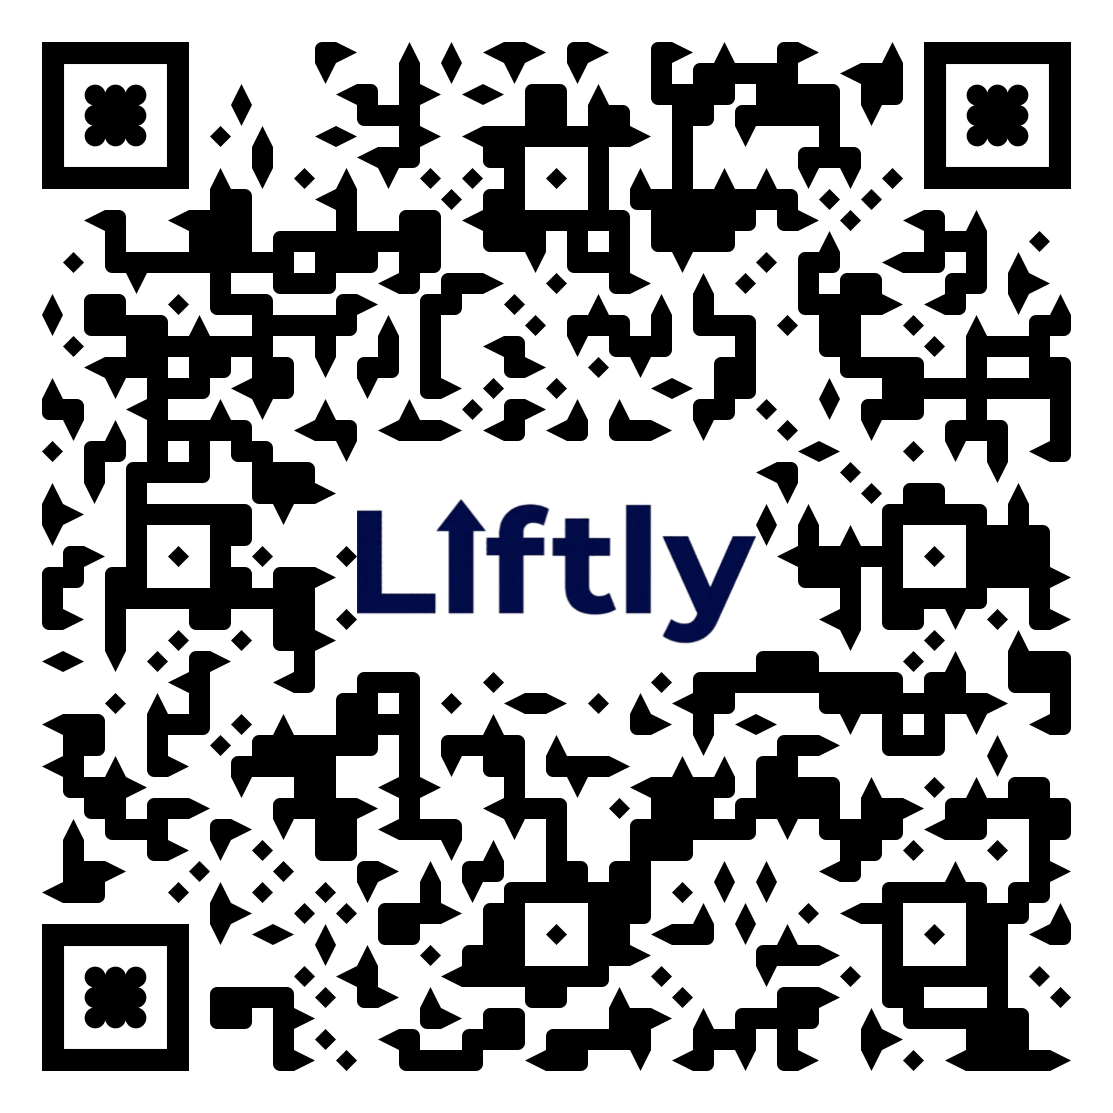
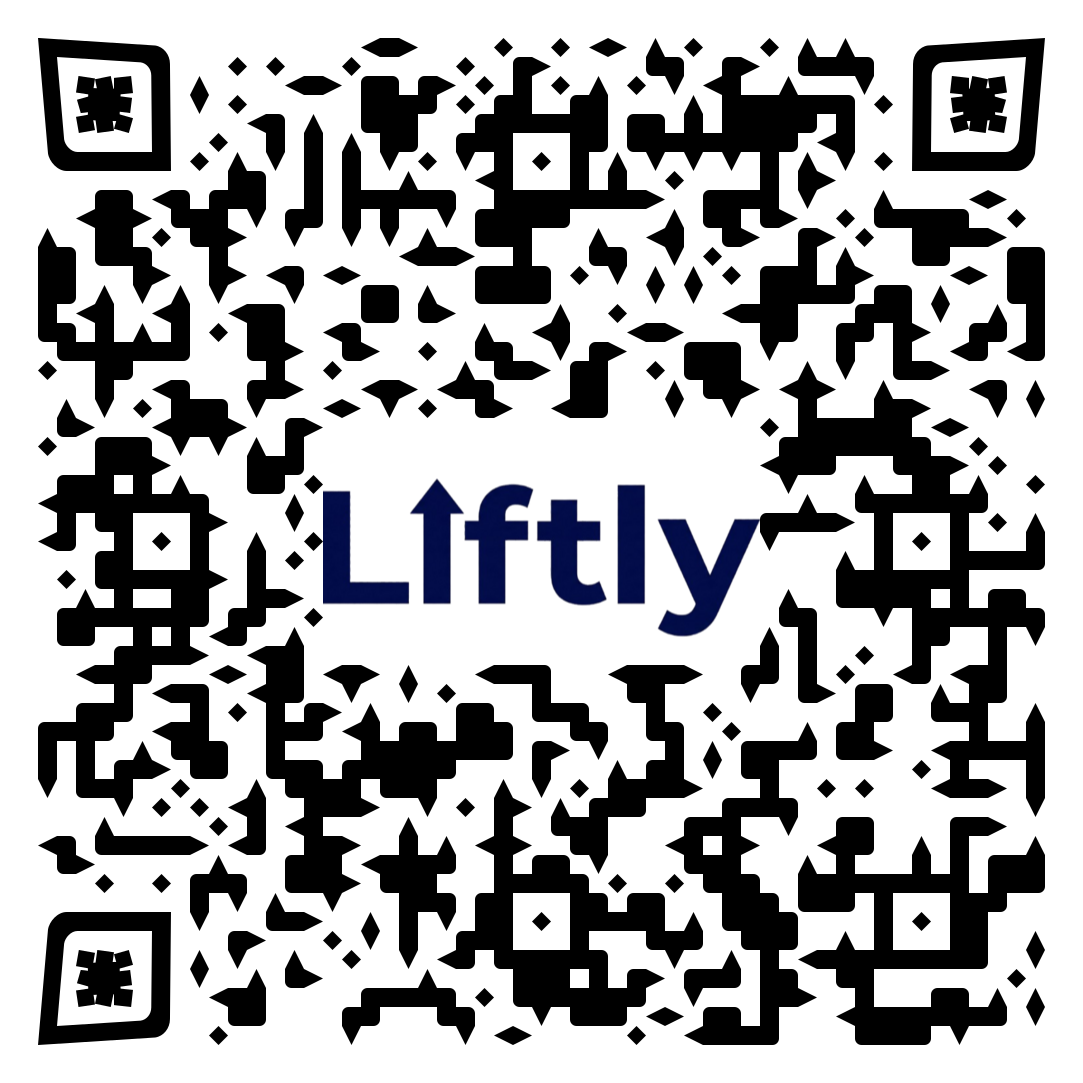
refactor: replace Tailwind utility classes with custom CSS for the download section and update its layout

diff --git a/Docs/Documenti/sections/download.html b/Docs/Documenti/sections/download.html
@@ -1,59 +1,325 @@
 <section id="download" class="section-content">
-    <div class="flex flex-col items-center justify-center min-h-[80vh] text-center gap-8">
+    <style>
+        .dl-hero {
+            display: grid;
+            grid-template-columns: 1fr 1fr;
+            gap: 0;
+            min-height: 88vh;
+            align-items: stretch;
+        }
+        @media (max-width: 900px) {
+            .dl-hero { grid-template-columns: 1fr; }
+            .dl-right { min-height: 420px; }
+        }
 
-        <!-- Header -->
-        <div>
-            <div class="inline-flex items-center gap-2 bg-pink-50 border border-pink-200 text-pink-700 text-xs font-bold uppercase tracking-widest px-4 py-1.5 rounded-full mb-5">
-                <i data-lucide="smartphone" class="w-3.5 h-3.5"></i>
+        /* Left panel */
+        .dl-left {
+            display: flex;
+            flex-direction: column;
+            justify-content: center;
+            padding: 4rem 3.5rem;
+            background: #fff;
+        }
+        .dl-badge {
+            display: inline-flex;
+            align-items: center;
+            gap: 0.5rem;
+            background: linear-gradient(135deg,#833ab4,#fd1d1d,#fcb045);
+            color: #fff;
+            font-size: 0.65rem;
+            font-weight: 800;
+            letter-spacing: 0.12em;
+            text-transform: uppercase;
+            padding: 0.35rem 1rem;
+            border-radius: 999px;
+            width: fit-content;
+            margin-bottom: 1.75rem;
+        }
+        .dl-title {
+            font-size: clamp(2.2rem, 4vw, 3.5rem);
+            font-weight: 900;
+            color: #001540;
+            line-height: 1.08;
+            letter-spacing: -0.03em;
+            margin-bottom: 1.25rem;
+        }
+        .dl-title span {
+            background: linear-gradient(135deg,#833ab4,#fd1d1d,#fcb045);
+            -webkit-background-clip: text;
+            -webkit-text-fill-color: transparent;
+            background-clip: text;
+        }
+        .dl-desc {
+            font-size: 1rem;
+            color: #64748b;
+            line-height: 1.7;
+            max-width: 440px;
+            margin-bottom: 2.5rem;
+        }
+
+        /* Steps */
+        .dl-steps {
+            display: flex;
+            flex-direction: column;
+            gap: 0.85rem;
+            margin-bottom: 2.5rem;
+        }
+        .dl-step {
+            display: flex;
+            align-items: flex-start;
+            gap: 1rem;
+        }
+        .dl-step-num {
+            width: 28px;
+            height: 28px;
+            border-radius: 50%;
+            background: #001540;
+            color: #fff;
+            font-size: 0.75rem;
+            font-weight: 800;
+            display: flex;
+            align-items: center;
+            justify-content: center;
+            flex-shrink: 0;
+            margin-top: 1px;
+        }
+        .dl-step-text strong { display: block; font-size: 0.875rem; font-weight: 700; color: #001540; }
+        .dl-step-text span { font-size: 0.8rem; color: #64748b; }
+
+        /* CTA button */
+        .dl-cta {
+            display: inline-flex;
+            align-items: center;
+            gap: 0.75rem;
+            padding: 1rem 2rem;
+            border-radius: 14px;
+            font-weight: 800;
+            font-size: 0.95rem;
+            color: #fff;
+            text-decoration: none;
+            background: linear-gradient(135deg,#833ab4,#fd1d1d,#fcb045);
+            box-shadow: 0 8px 30px rgba(131,58,180,0.35);
+            transition: transform 0.2s, box-shadow 0.2s, opacity 0.2s;
+            width: fit-content;
+            margin-bottom: 1.25rem;
+        }
+        .dl-cta:hover {
+            transform: translateY(-2px) scale(1.02);
+            box-shadow: 0 14px 40px rgba(131,58,180,0.45);
+            opacity: 0.95;
+        }
+
+        /* Warning note */
+        .dl-note {
+            display: flex;
+            align-items: flex-start;
+            gap: 0.65rem;
+            background: #fffbeb;
+            border: 1px solid #fde68a;
+            border-radius: 12px;
+            padding: 0.9rem 1.1rem;
+            max-width: 440px;
+        }
+        .dl-note p { font-size: 0.78rem; color: #92400e; line-height: 1.55; margin: 0; }
+        .dl-note p strong { font-weight: 700; }
+
+        /* Right panel */
+        .dl-right {
+            position: relative;
+            display: flex;
+            align-items: center;
+            justify-content: center;
+            background: linear-gradient(145deg, #001540 0%, #0a2a6e 60%, #1a0533 100%);
+            overflow: hidden;
+            padding: 3rem 2rem;
+        }
+        /* Decorative orbs */
+        .dl-orb {
+            position: absolute;
+            border-radius: 50%;
+            filter: blur(60px);
+            opacity: 0.25;
+            pointer-events: none;
+        }
+        .dl-orb-1 { width: 320px; height: 320px; background: #833ab4; top: -80px; right: -80px; }
+        .dl-orb-2 { width: 280px; height: 280px; background: #fd1d1d; bottom: -60px; left: -60px; }
+        .dl-orb-3 { width: 200px; height: 200px; background: #fcb045; top: 50%; left: 50%; transform: translate(-50%,-50%); opacity: 0.12; }
+
+        /* QR card */
+        .dl-qr-card {
+            position: relative;
+            z-index: 2;
+            display: flex;
+            flex-direction: column;
+            align-items: center;
+            gap: 1.5rem;
+            text-align: center;
+        }
+        .dl-qr-frame {
+            background: #fff;
+            border-radius: 24px;
+            padding: 1.5rem;
+            box-shadow: 0 30px 80px rgba(0,0,0,0.5), 0 0 0 1px rgba(255,255,255,0.08);
+        }
+        .dl-qr-frame img {
+            display: block;
+            width: clamp(180px, 22vw, 280px);
+            height: clamp(180px, 22vw, 280px);
+            object-fit: contain;
+            border-radius: 12px;
+        }
+        .dl-scan-hint {
+            display: flex;
+            align-items: center;
+            gap: 0.5rem;
+            color: rgba(255,255,255,0.55);
+            font-size: 0.78rem;
+            font-weight: 600;
+            letter-spacing: 0.04em;
+        }
+        .dl-platform-badges {
+            display: flex;
+            align-items: center;
+            gap: 0.75rem;
+        }
+        .dl-pbadge {
+            background: rgba(255,255,255,0.1);
+            border: 1px solid rgba(255,255,255,0.15);
+            border-radius: 8px;
+            padding: 0.45rem 0.85rem;
+            color: rgba(255,255,255,0.8);
+            font-size: 0.72rem;
+            font-weight: 700;
+            letter-spacing: 0.04em;
+            display: flex;
+            align-items: center;
+            gap: 0.4rem;
+        }
+    </style>
+
+    <div class="dl-hero">
+
+        <!-- ===== LEFT: Copy & CTA ===== -->
+        <div class="dl-left">
+
+            <div class="dl-badge">
+                <svg xmlns="http://www.w3.org/2000/svg" width="12" height="12" viewBox="0 0 24 24" fill="none"
+                    stroke="currentColor" stroke-width="2.5" stroke-linecap="round" stroke-linejoin="round">
+                    <rect width="14" height="20" x="5" y="2" rx="2" ry="2"/>
+                    <path d="M12 18h.01"/>
+                </svg>
                 Download APK
             </div>
-            <h1 class="text-4xl font-black text-[#001540] mb-3 tracking-tight">Scarica Liftly</h1>
-            <p class="text-slate-500 max-w-md mx-auto text-base leading-relaxed">
-                Inquadra il QR code con la fotocamera del tuo smartphone oppure clicca il link qui sotto per scaricare direttamente l'APK di Liftly dal profilo Instagram del progetto.
-            </p>
-        </div>
 
-        <!-- QR Code Card -->
-        <div class="relative group">
-            <!-- Glow effect -->
-            <div class="absolute inset-0 rounded-3xl bg-gradient-to-br from-pink-400 via-rose-400 to-[#001540] opacity-20 blur-2xl scale-110 group-hover:opacity-30 transition-opacity duration-500"></div>
-            <div class="relative bg-white border border-slate-200 rounded-3xl p-8 shadow-xl flex flex-col items-center gap-5">
-                <img
-                    src="qr-code.png"
-                    alt="QR Code – Link diretto all'APK Liftly su Instagram"
-                    class="w-56 h-56 rounded-xl object-contain"
-                />
-                <div class="flex items-center gap-2 text-slate-400 text-xs font-medium">
-                    <i data-lucide="scan-line" class="w-4 h-4"></i>
-                    Inquadra con la fotocamera
+            <h1 class="dl-title">
+                Prova Liftly<br>
+                <span>adesso.</span>
+            </h1>
+            <p class="dl-desc">
+                Scarica l'APK direttamente dal profilo Instagram del progetto oppure inquadra il QR code con la fotocamera del tuo smartphone Android.
+            </p>
+
+            <!-- Steps -->
+            <div class="dl-steps">
+                <div class="dl-step">
+                    <div class="dl-step-num">1</div>
+                    <div class="dl-step-text">
+                        <strong>Inquadra o apri il link</strong>
+                        <span>Usa la fotocamera o clicca il pulsante qui sotto.</span>
+                    </div>
                 </div>
+                <div class="dl-step">
+                    <div class="dl-step-num">2</div>
+                    <div class="dl-step-text">
+                        <strong>Scarica l'APK</strong>
+                        <span>Trovi il file .apk direttamente nel post Instagram.</span>
+                    </div>
+                </div>
+                <div class="dl-step">
+                    <div class="dl-step-num">3</div>
+                    <div class="dl-step-text">
+                        <strong>Installa e accedi</strong>
+                        <span>Abilita "Sorgenti sconosciute" nelle impostazioni Android.</span>
+                    </div>
+                </div>
+            </div>
+
+            <!-- CTA -->
+            <a
+                id="instagram-apk-link"
+                href="https://www.instagram.com/liftly.app"
+                target="_blank"
+                rel="noopener noreferrer"
+                class="dl-cta"
+            >
+                <svg xmlns="http://www.w3.org/2000/svg" width="20" height="20" viewBox="0 0 24 24" fill="none"
+                    stroke="currentColor" stroke-width="2" stroke-linecap="round" stroke-linejoin="round">
+                    <rect width="20" height="20" x="2" y="2" rx="5" ry="5"/>
+                    <path d="M16 11.37A4 4 0 1 1 12.63 8 4 4 0 0 1 16 11.37z"/>
+                    <line x1="17.5" x2="17.51" y1="6.5" y2="6.5"/>
+                </svg>
+                Apri su Instagram → APK Liftly
+            </a>
+
+            <!-- Warning note -->
+            <div class="dl-note">
+                <svg xmlns="http://www.w3.org/2000/svg" width="14" height="14" viewBox="0 0 24 24" fill="none"
+                    stroke="#d97706" stroke-width="2" stroke-linecap="round" stroke-linejoin="round"
+                    style="flex-shrink:0;margin-top:1px">
+                    <circle cx="12" cy="12" r="10"/><line x1="12" y1="8" x2="12" y2="12"/><line x1="12" y1="16" x2="12.01" y2="16"/>
+                </svg>
+                <p><strong>Nota:</strong> per installare l'APK su Android, abilita <em>"Installa app da fonti sconosciute"</em> nelle impostazioni del dispositivo prima di aprire il file.</p>
             </div>
         </div>
 
-        <!-- Instagram CTA Button -->
-        <a
-            id="instagram-apk-link"
-            href="https://www.instagram.com/liftly.app"
-            target="_blank"
-            rel="noopener noreferrer"
-            class="inline-flex items-center gap-3 px-8 py-4 rounded-2xl font-bold text-white text-sm shadow-lg
-                   bg-gradient-to-r from-[#833ab4] via-[#fd1d1d] to-[#fcb045]
-                   hover:opacity-90 hover:scale-105 active:scale-100 transition-all duration-200"
-        >
-            <!-- Instagram icon (inline SVG) -->
-            <svg xmlns="http://www.w3.org/2000/svg" class="w-5 h-5" viewBox="0 0 24 24" fill="none" stroke="currentColor" stroke-width="2" stroke-linecap="round" stroke-linejoin="round">
-                <rect width="20" height="20" x="2" y="2" rx="5" ry="5"/><path d="M16 11.37A4 4 0 1 1 12.63 8 4 4 0 0 1 16 11.37z"/><line x1="17.5" x2="17.51" y1="6.5" y2="6.5"/>
-            </svg>
-            Apri su Instagram → APK Liftly
-        </a>
+        <!-- ===== RIGHT: QR Code Panel ===== -->
+        <div class="dl-right">
+            <div class="dl-orb dl-orb-1"></div>
+            <div class="dl-orb dl-orb-2"></div>
+            <div class="dl-orb dl-orb-3"></div>
 
-        <!-- Info note -->
-        <div class="bg-amber-50 border border-amber-200 rounded-2xl px-6 py-4 max-w-sm text-left flex items-start gap-3">
-            <i data-lucide="info" class="w-4 h-4 text-amber-500 mt-0.5 shrink-0"></i>
-            <p class="text-xs text-amber-800 leading-relaxed">
-                <span class="font-bold">Nota:</span> per installare l'APK su Android, assicurati di abilitare
-                <em>"Installa app da fonti sconosciute"</em> nelle impostazioni del dispositivo.
-            </p>
+            <div class="dl-qr-card">
+                <div class="dl-qr-frame">
+                    <img
+                        src="qr-code.png"
+                        alt="QR Code – Link diretto all'APK Liftly su Instagram"
+                    />
+                </div>
+
+                <div class="dl-scan-hint">
+                    <svg xmlns="http://www.w3.org/2000/svg" width="14" height="14" viewBox="0 0 24 24" fill="none"
+                        stroke="currentColor" stroke-width="2" stroke-linecap="round" stroke-linejoin="round">
+                        <path d="M3 7V5a2 2 0 0 1 2-2h2"/><path d="M17 3h2a2 2 0 0 1 2 2v2"/>
+                        <path d="M21 17v2a2 2 0 0 1-2 2h-2"/><path d="M7 21H5a2 2 0 0 1-2-2v-2"/>
+                        <line x1="7" y1="12" x2="17" y2="12"/>
+                    </svg>
+                    Inquadra con la fotocamera
+                </div>
+
+                <div class="dl-platform-badges">
+                    <div class="dl-pbadge">
+                        <svg xmlns="http://www.w3.org/2000/svg" width="12" height="12" viewBox="0 0 24 24" fill="currentColor">
+                            <path d="M17.05 20.28c-.98.95-2.05.8-3.08.35-1.09-.46-2.09-.48-3.24 0-1.44.62-2.2.44-3.06-.35C2.79 15.25 3.51 7.7 9.05 7.4c1.39.06 2.31.74 3.08.75.81-.04 1.58-.73 3.02-.83 1.68-.12 2.97.54 3.8 1.74-3.45 2.05-2.88 6.9.87 8.19-.64 1.45-1.16 2.21-2.77 3.03zM12.03 7.25c-.15-2.23 1.66-4.07 3.74-4.25.29 2.58-2.34 4.5-3.74 4.25z"/>
+                        </svg>
+                        Android
+                    </div>
+                    <div class="dl-pbadge">
+                        <svg xmlns="http://www.w3.org/2000/svg" width="12" height="12" viewBox="0 0 24 24" fill="none"
+                            stroke="currentColor" stroke-width="2" stroke-linecap="round" stroke-linejoin="round">
+                            <path d="M12 2a10 10 0 1 0 0 20A10 10 0 0 0 12 2z"/>
+                            <path d="M2 12h20M12 2a15.3 15.3 0 0 1 4 10 15.3 15.3 0 0 1-4 10 15.3 15.3 0 0 1-4-10 15.3 15.3 0 0 1 4-10z"/>
+                        </svg>
+                        Free
+                    </div>
+                    <div class="dl-pbadge">
+                        <svg xmlns="http://www.w3.org/2000/svg" width="12" height="12" viewBox="0 0 24 24" fill="none"
+                            stroke="currentColor" stroke-width="2" stroke-linecap="round" stroke-linejoin="round">
+                            <polyline points="20 6 9 17 4 12"/>
+                        </svg>
+                        Beta
+                    </div>
+                </div>
+            </div>
         </div>
 
     </div>
